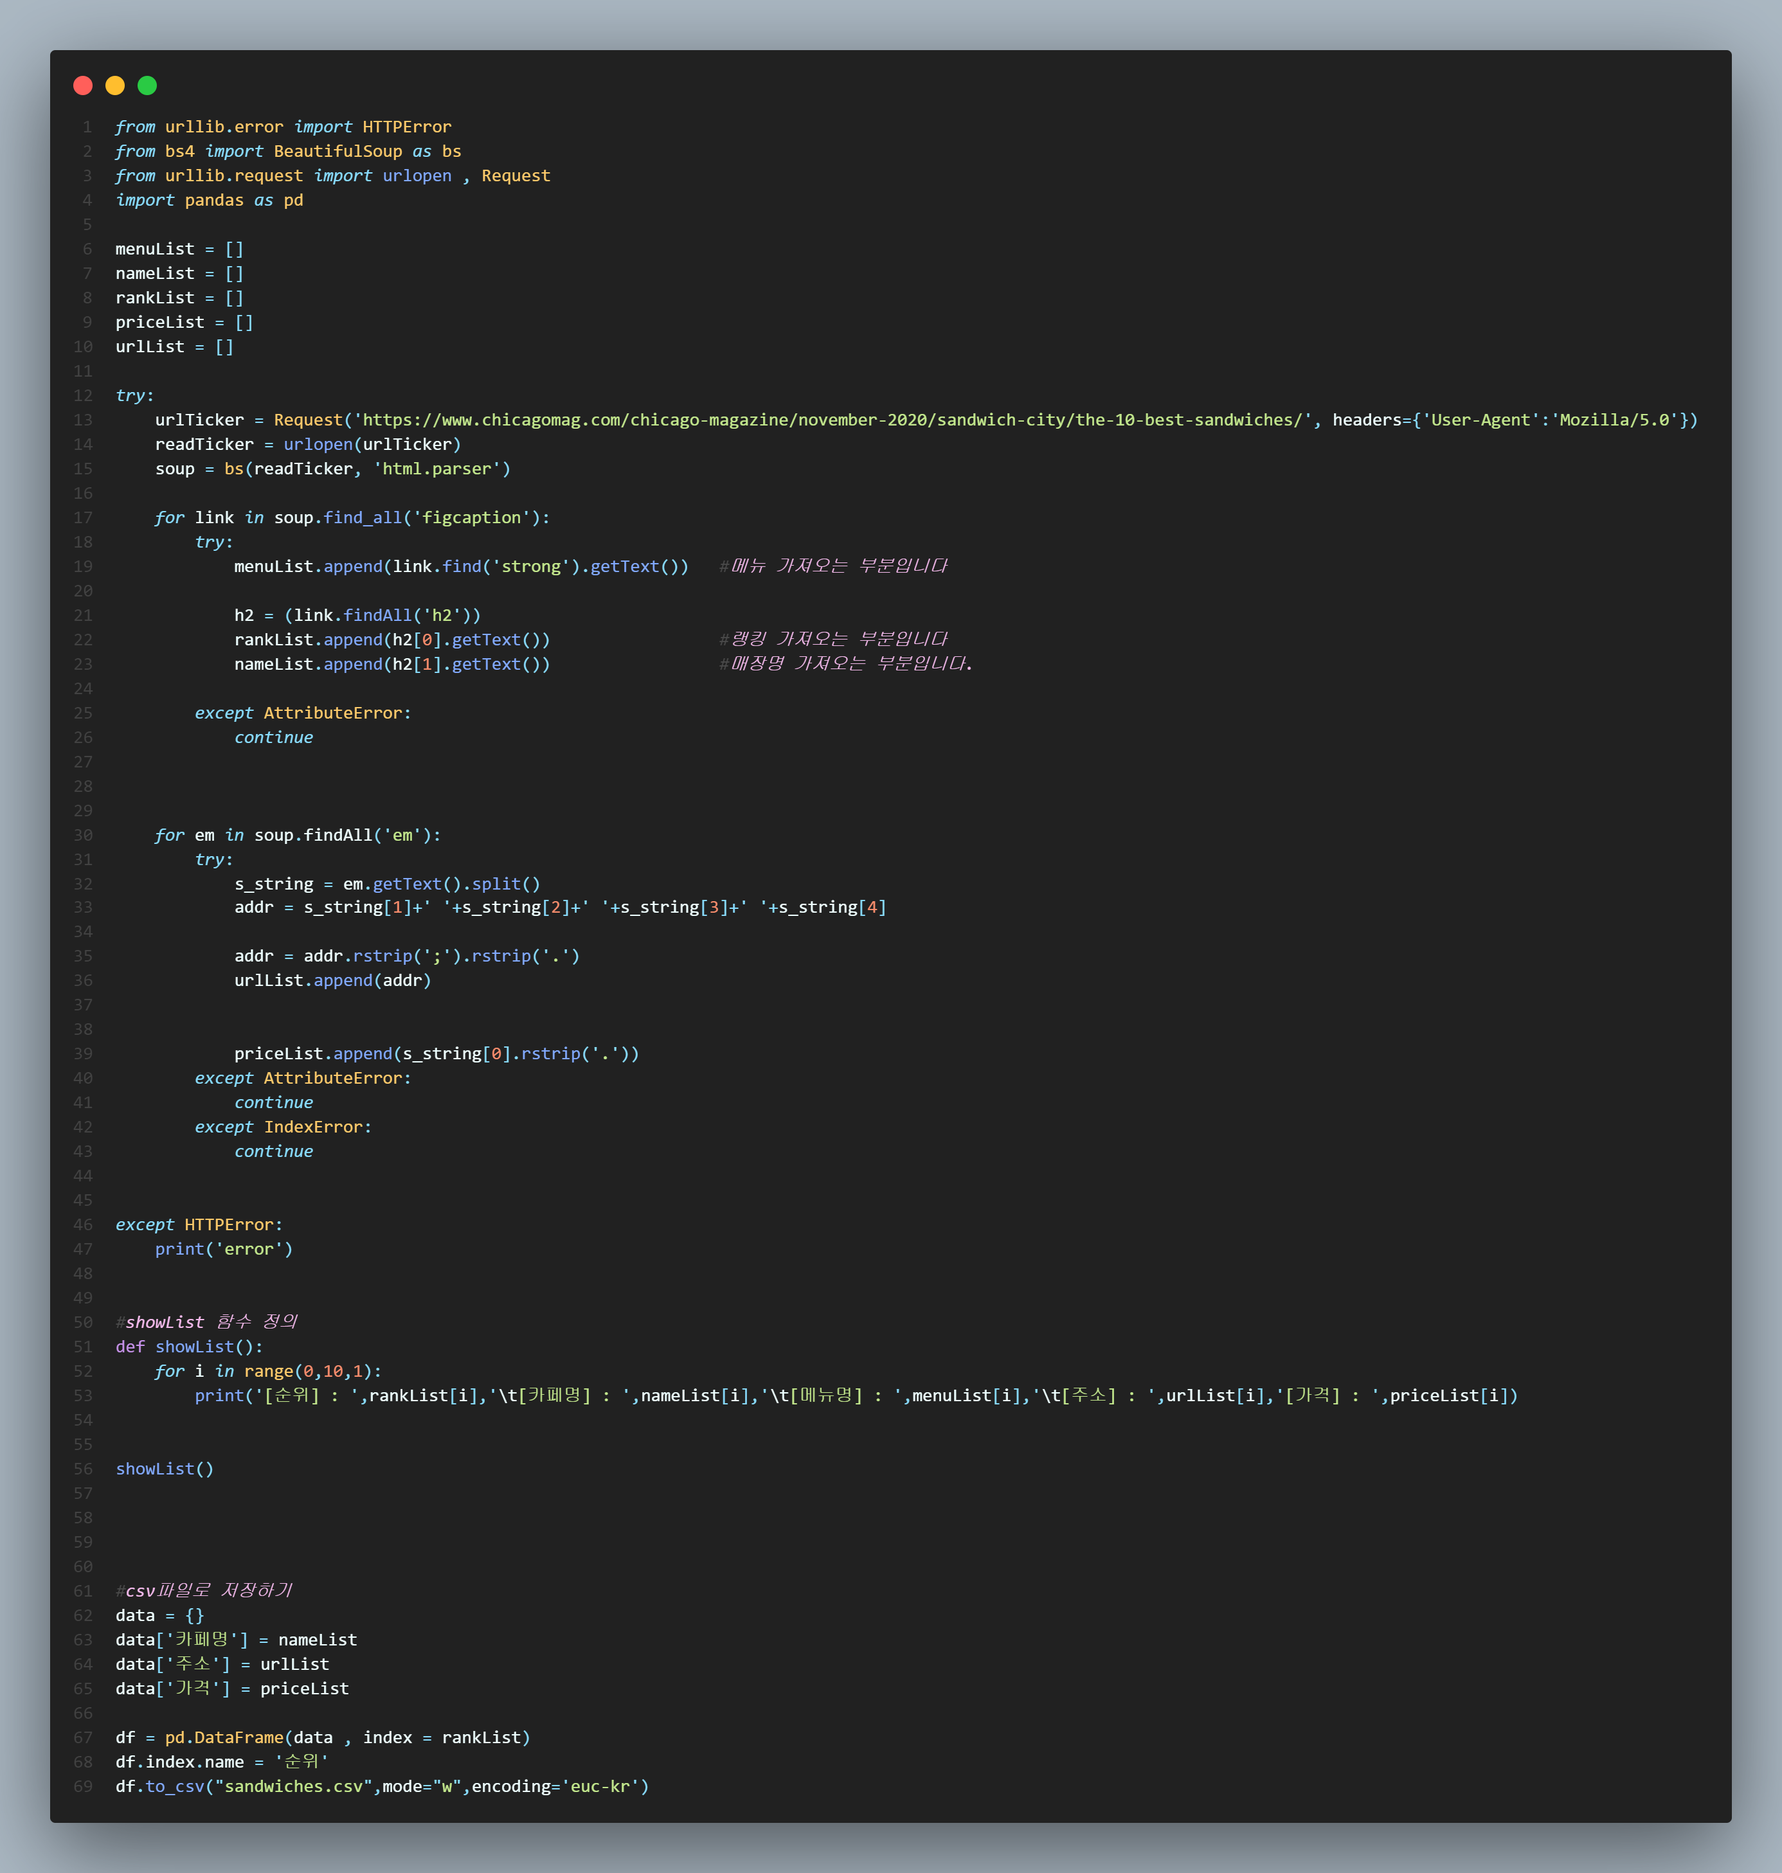
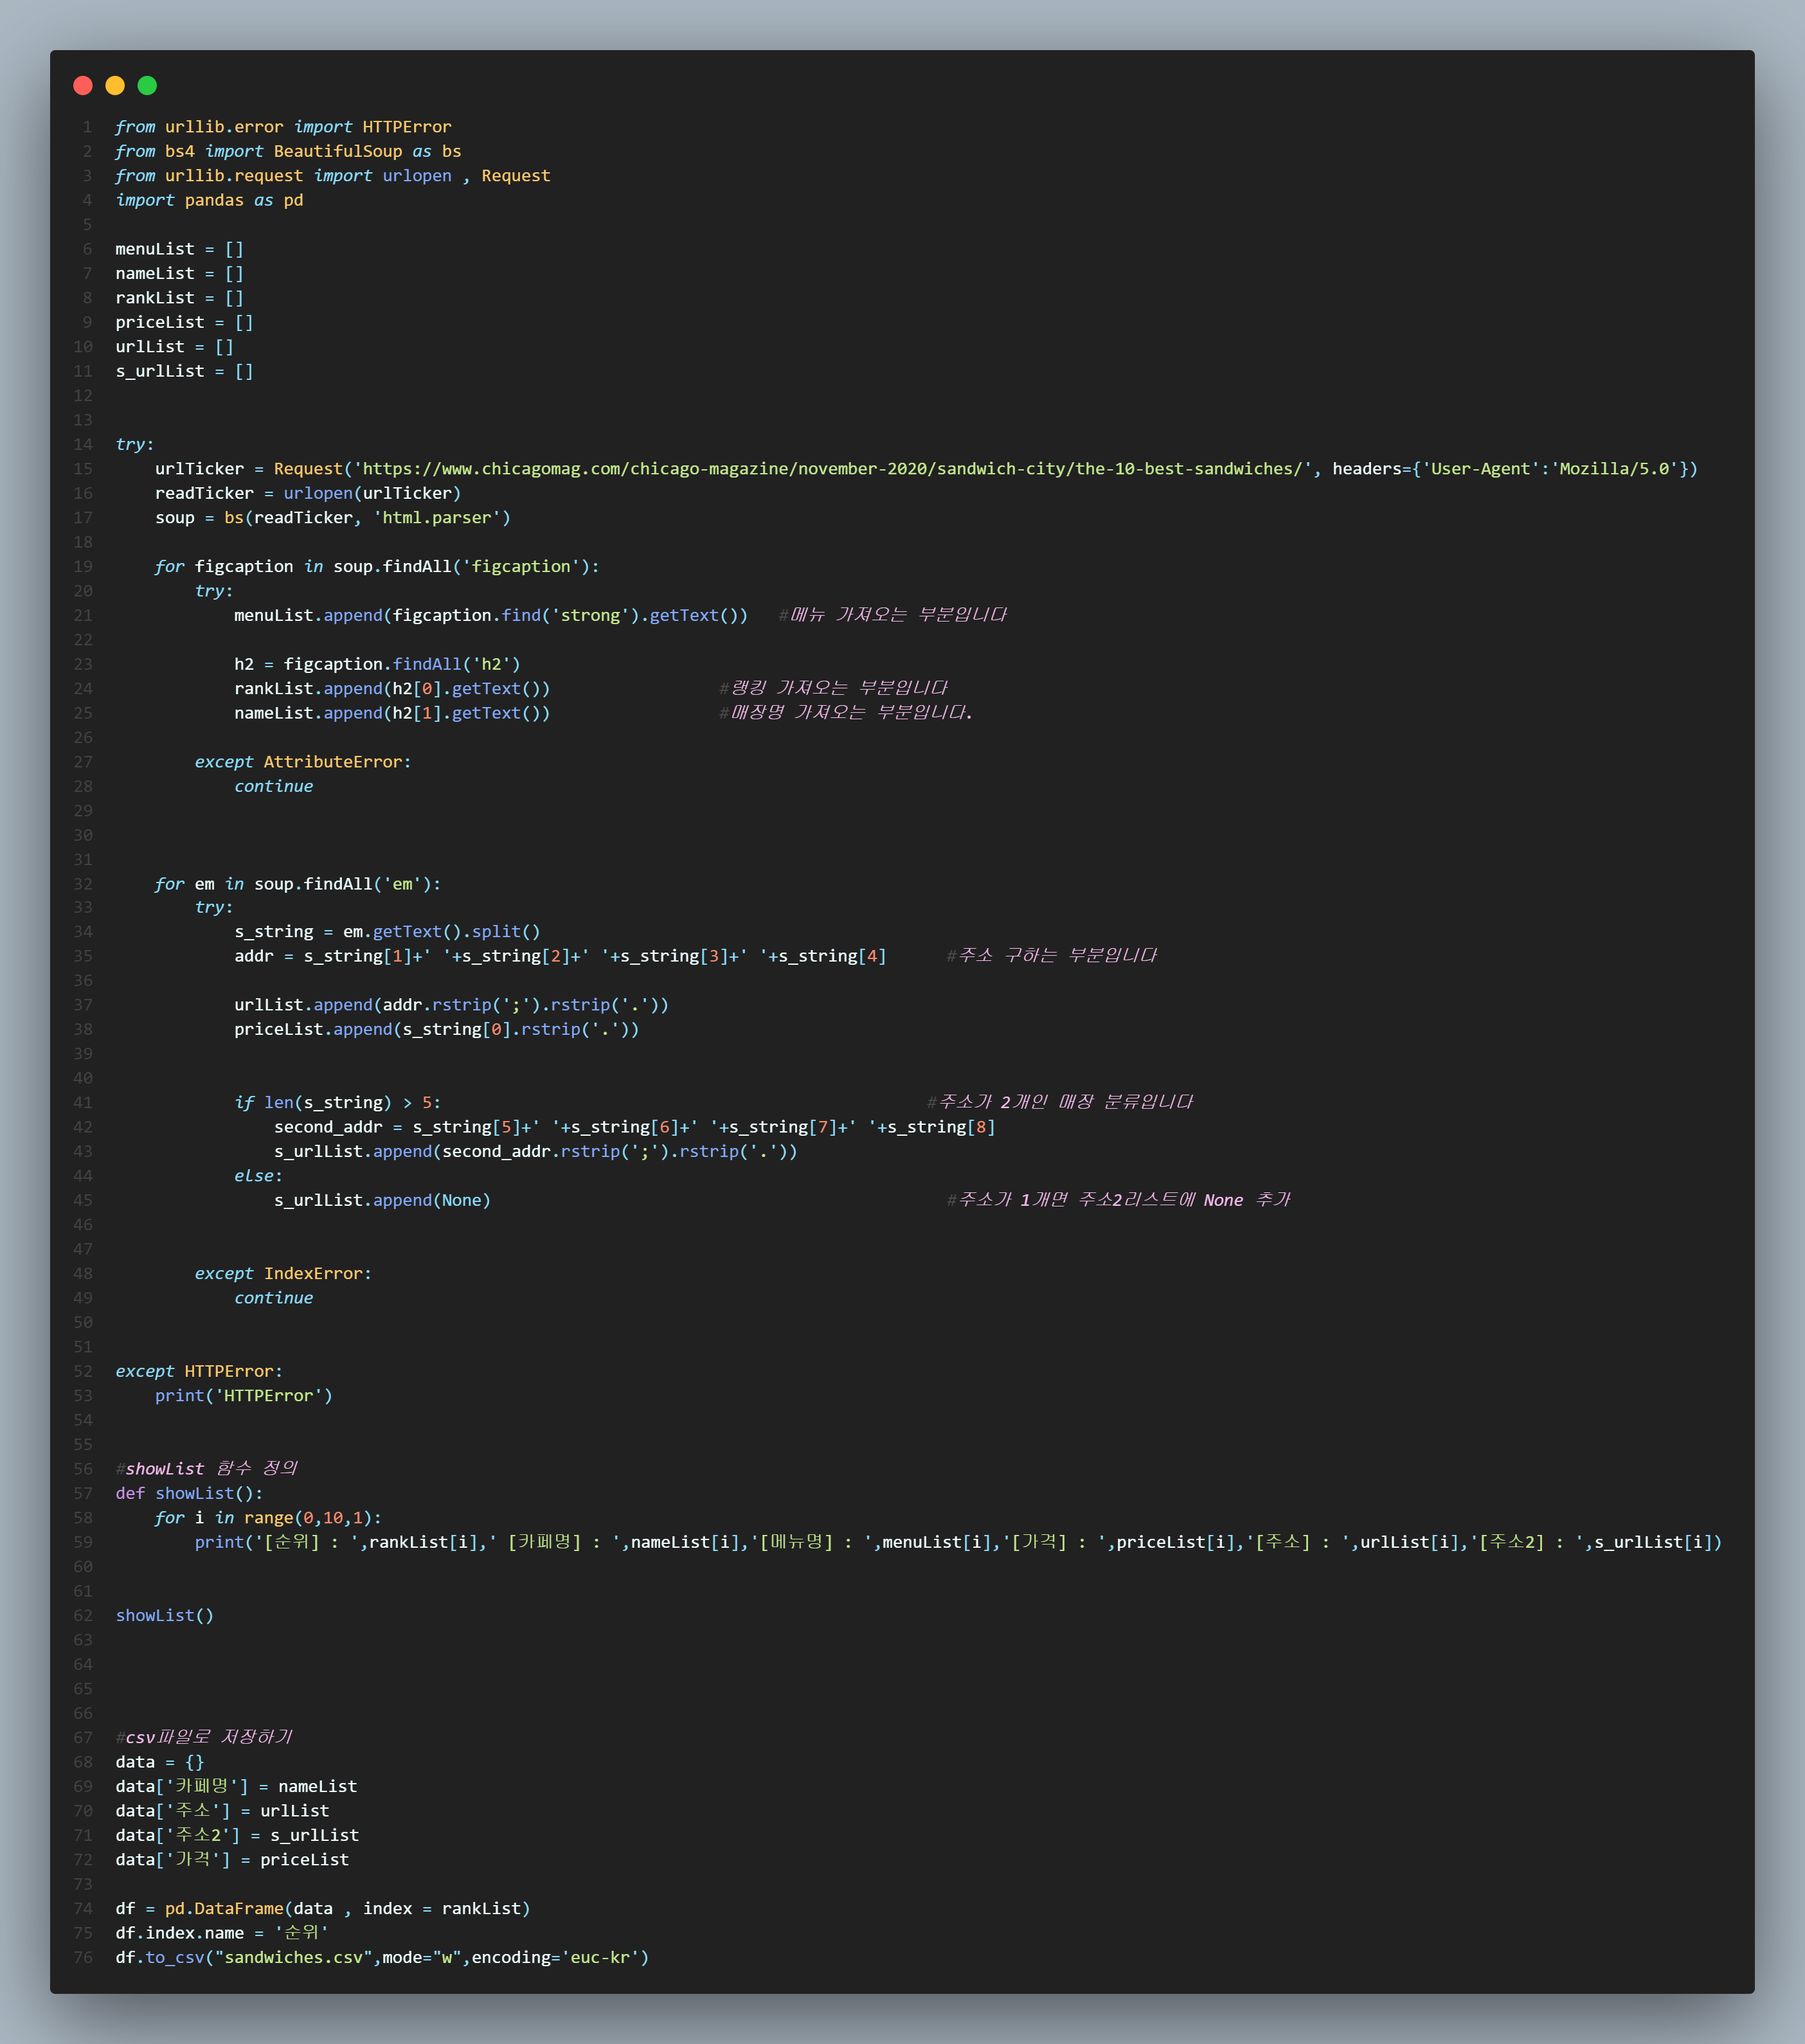
0412 / 크롤링 / sandwich 발표

diff --git a/0406/ChicagoSandwich.py b/0406/ChicagoSandwich.py
@@ -8,17 +8,19 @@ nameList = []
 rankList = []
 priceList = []
 urlList = []
+s_urlList = []          
+
 
 try:
     urlTicker = Request('https://www.chicagomag.com/chicago-magazine/november-2020/sandwich-city/the-10-best-sandwiches/', headers={'User-Agent':'Mozilla/5.0'})
     readTicker = urlopen(urlTicker)
     soup = bs(readTicker, 'html.parser')
     
-    for link in soup.find_all('figcaption'):               
+    for figcaption in soup.findAll('figcaption'):               
         try:
-            menuList.append(link.find('strong').getText())   #메뉴 가져오는 부분입니다
+            menuList.append(figcaption.find('strong').getText())   #메뉴 가져오는 부분입니다
 
-            h2 = (link.findAll('h2'))                        
+            h2 = figcaption.findAll('h2')                        
             rankList.append(h2[0].getText())                 #랭킹 가져오는 부분입니다
             nameList.append(h2[1].getText())                 #매장명 가져오는 부분입니다.
 
@@ -30,27 +32,31 @@ try:
     for em in soup.findAll('em'):
         try:
             s_string = em.getText().split()
-            addr = s_string[1]+' '+s_string[2]+' '+s_string[3]+' '+s_string[4]
-            
-            addr = addr.rstrip(';').rstrip('.')
-            urlList.append(addr)
+            addr = s_string[1]+' '+s_string[2]+' '+s_string[3]+' '+s_string[4]      #주소 구하는 부분입니다
+
+            urlList.append(addr.rstrip(';').rstrip('.'))
+            priceList.append(s_string[0].rstrip('.'))   
 
 
-            priceList.append(s_string[0].rstrip('.'))
-        except AttributeError:
-            continue
+            if len(s_string) > 5:                                                 #주소가 2개인 매장 분류입니다
+                second_addr = s_string[5]+' '+s_string[6]+' '+s_string[7]+' '+s_string[8]
+                s_urlList.append(second_addr.rstrip(';').rstrip('.'))
+            else:
+                s_urlList.append(None)                                              #주소가 1개면 주소2리스트에 None 추가
+
+        
         except IndexError:
             continue
 
 
 except HTTPError:
-    print('error')
+    print('HTTPError')
 
 
 #showList 함수 정의
 def showList():
     for i in range(0,10,1):
-        print('[순위] : ',rankList[i],'\t[카페명] : ',nameList[i],'\t[메뉴명] : ',menuList[i],'\t[주소] : ',urlList[i],'[가격] : ',priceList[i])
+        print('[순위] : ',rankList[i],' [카페명] : ',nameList[i],'[메뉴명] : ',menuList[i],'[가격] : ',priceList[i],'[주소] : ',urlList[i],'[주소2] : ',s_urlList[i])
 
 
 showList()
@@ -62,6 +68,7 @@ showList()
 data = {}
 data['카페명'] = nameList
 data['주소'] = urlList
+data['주소2'] = s_urlList
 data['가격'] = priceList
 
 df = pd.DataFrame(data , index = rankList)
